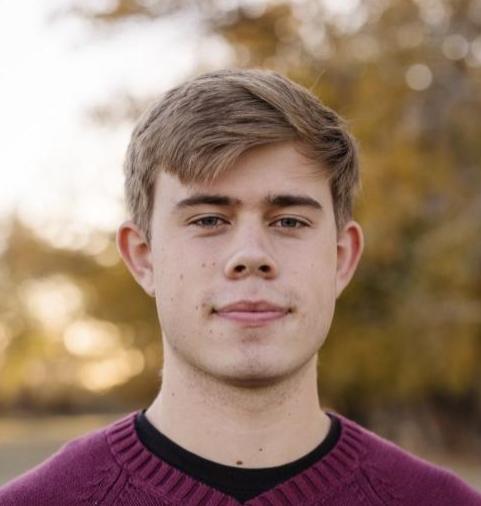
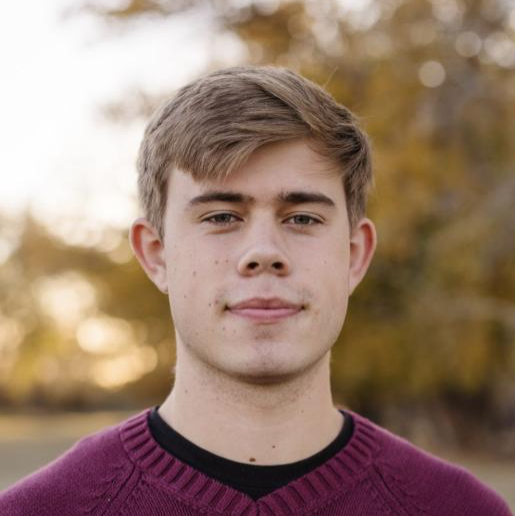
adjust mobile

diff --git a/index.html b/index.html
@@ -36,7 +36,7 @@
             </div>
         </section>
         <!-- Services -->
-        <section class="sec" id="services">
+        <section class="sec services" id="services">
             <div class="content">
                 <div class="mxw800p">
                     <h3>Services We offer</h3>
@@ -113,7 +113,7 @@
                 <div class="consultants">
                     <div class="box">
                         <div class="iconBx">
-                            <img src="https://media.licdn.com/dms/image/D5603AQHrO_cGM8xrSw/profile-displayphoto-shrink_800_800/0/1672598784574?e=2147483647&v=beta&t=nvW9F8W3UoepiIjSua_nFRTRlfyamousydbM8ag4pxY" width="250" height="300">
+                            <img src="https://media.licdn.com/dms/image/D5603AQHrO_cGM8xrSw/profile-displayphoto-shrink_800_800/0/1672598784574?e=2147483647&v=beta&t=nvW9F8W3UoepiIjSua_nFRTRlfyamousydbM8ag4pxY" width="250" height="250">
                         </div>
                         <div class="content">
                             <h2>Aditya Iyengar</h2>
@@ -122,7 +122,7 @@
                     </div>
                     <div class="box">
                         <div class="iconBx">
-                            <img src="images/jackson.png"/>
+                            <img src="images/jackson.png" width="250" height="250"/>
                         </div>
                         <div class="content">
                             <h2>Jackson Tabish</h2>
@@ -131,7 +131,7 @@
                     </div>
                     <div class="box">
                         <div class="iconBx">
-                            <img src="https://media.licdn.com/dms/image/D5603AQErYMQSzPMU2w/profile-displayphoto-shrink_800_800/0/1674522235964?e=2147483647&v=beta&t=SxbNg0gv229T7Px2brp6koaMHydNMdgnLWrEhFtNEdU" width="250" height="300"/>
+                            <img src="https://media.licdn.com/dms/image/D5603AQErYMQSzPMU2w/profile-displayphoto-shrink_800_800/0/1674522235964?e=2147483647&v=beta&t=SxbNg0gv229T7Px2brp6koaMHydNMdgnLWrEhFtNEdU" width="250" height="250"/>
                         </div>
                         <div class="content">
                             <h2>Jonathan Preiss</h2>
@@ -140,7 +140,7 @@
                     </div>
                     <div class="box">
                         <div class="iconBx">
-                            <img src="images/luke.png" width="250" height="300"/>
+                            <img src="images/luke.png" width="250" height="250"/>
                         </div>
                         <div class="content">
                             <h2>Luke Ponssen</h2>

diff --git a/styles.css b/styles.css
@@ -200,6 +200,7 @@ p {
     max-height: 250px;
     margin-bottom: 15px;
     border-radius: 50%;
+    display: cover;
 }
 .consultants .box h2 {
     font-size: 18px;
@@ -395,8 +396,8 @@ p {
         width: 100%;
     }
     .banner h2 {
-        font-size: 60px;
-        padding: 0 50px;
+        font-size: 50px;
+        padding: 0 0px;
     }
     .sec {
         padding: 100px 50px 50px 50px;
